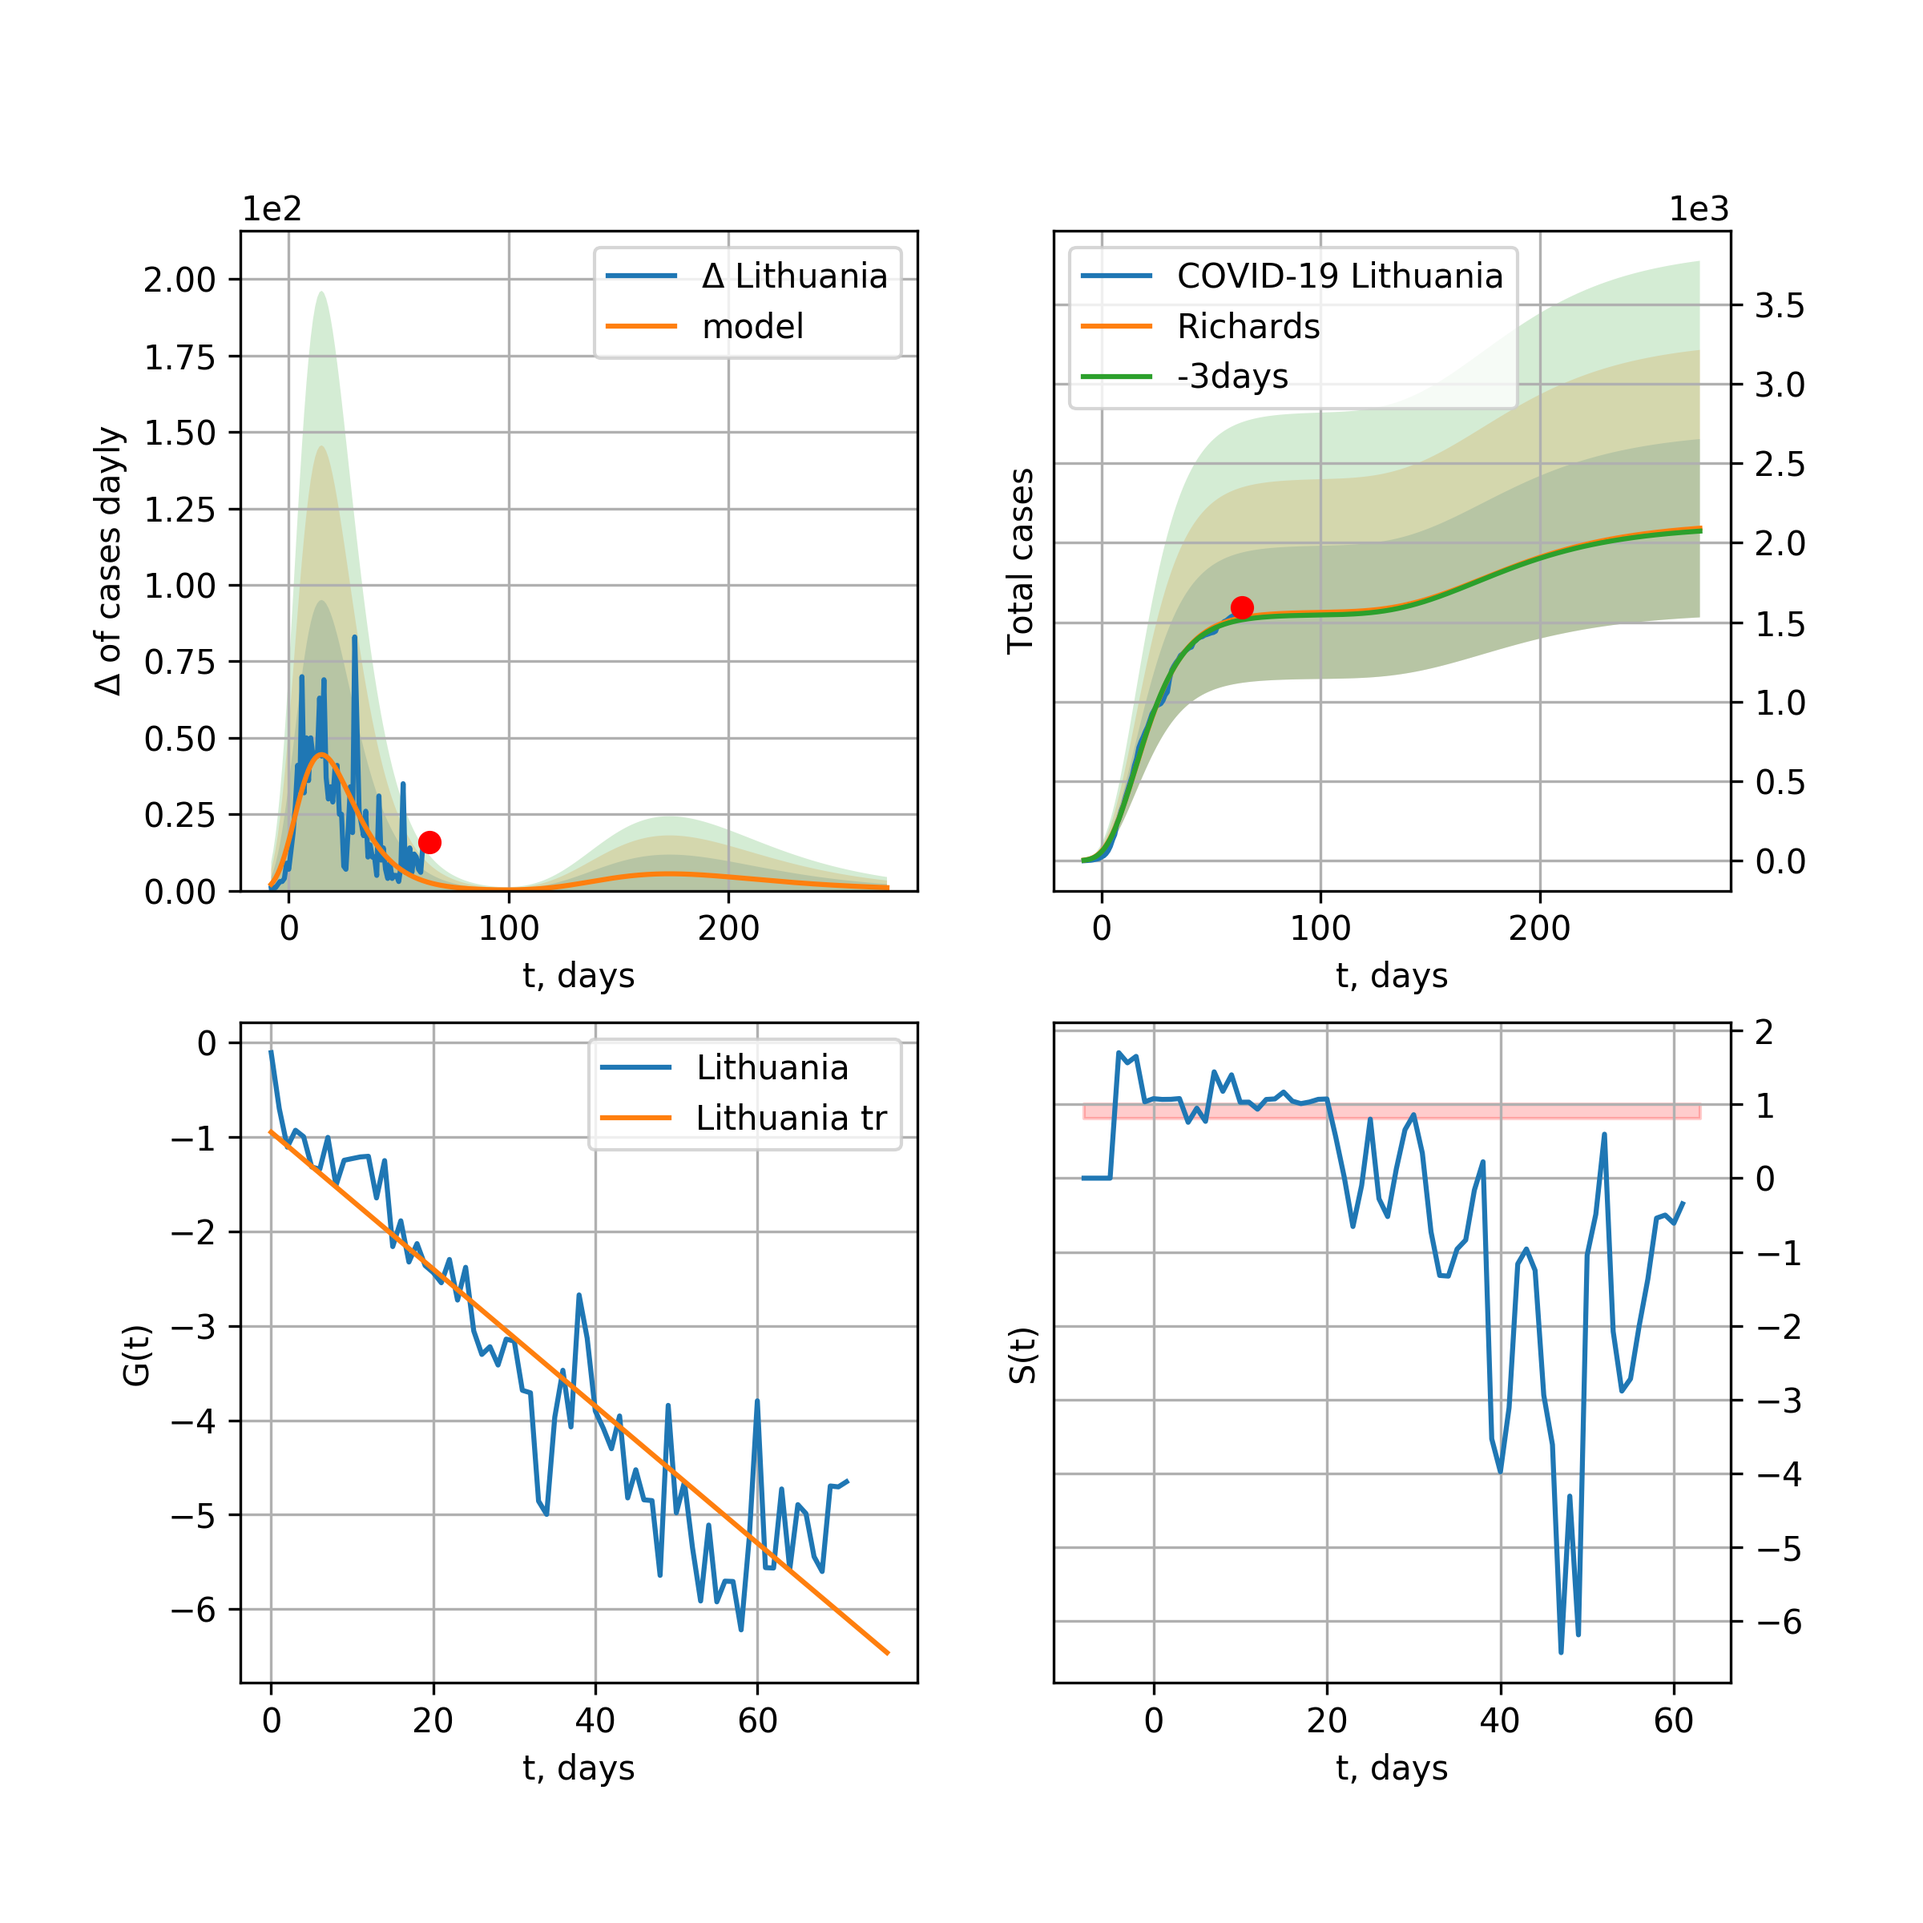
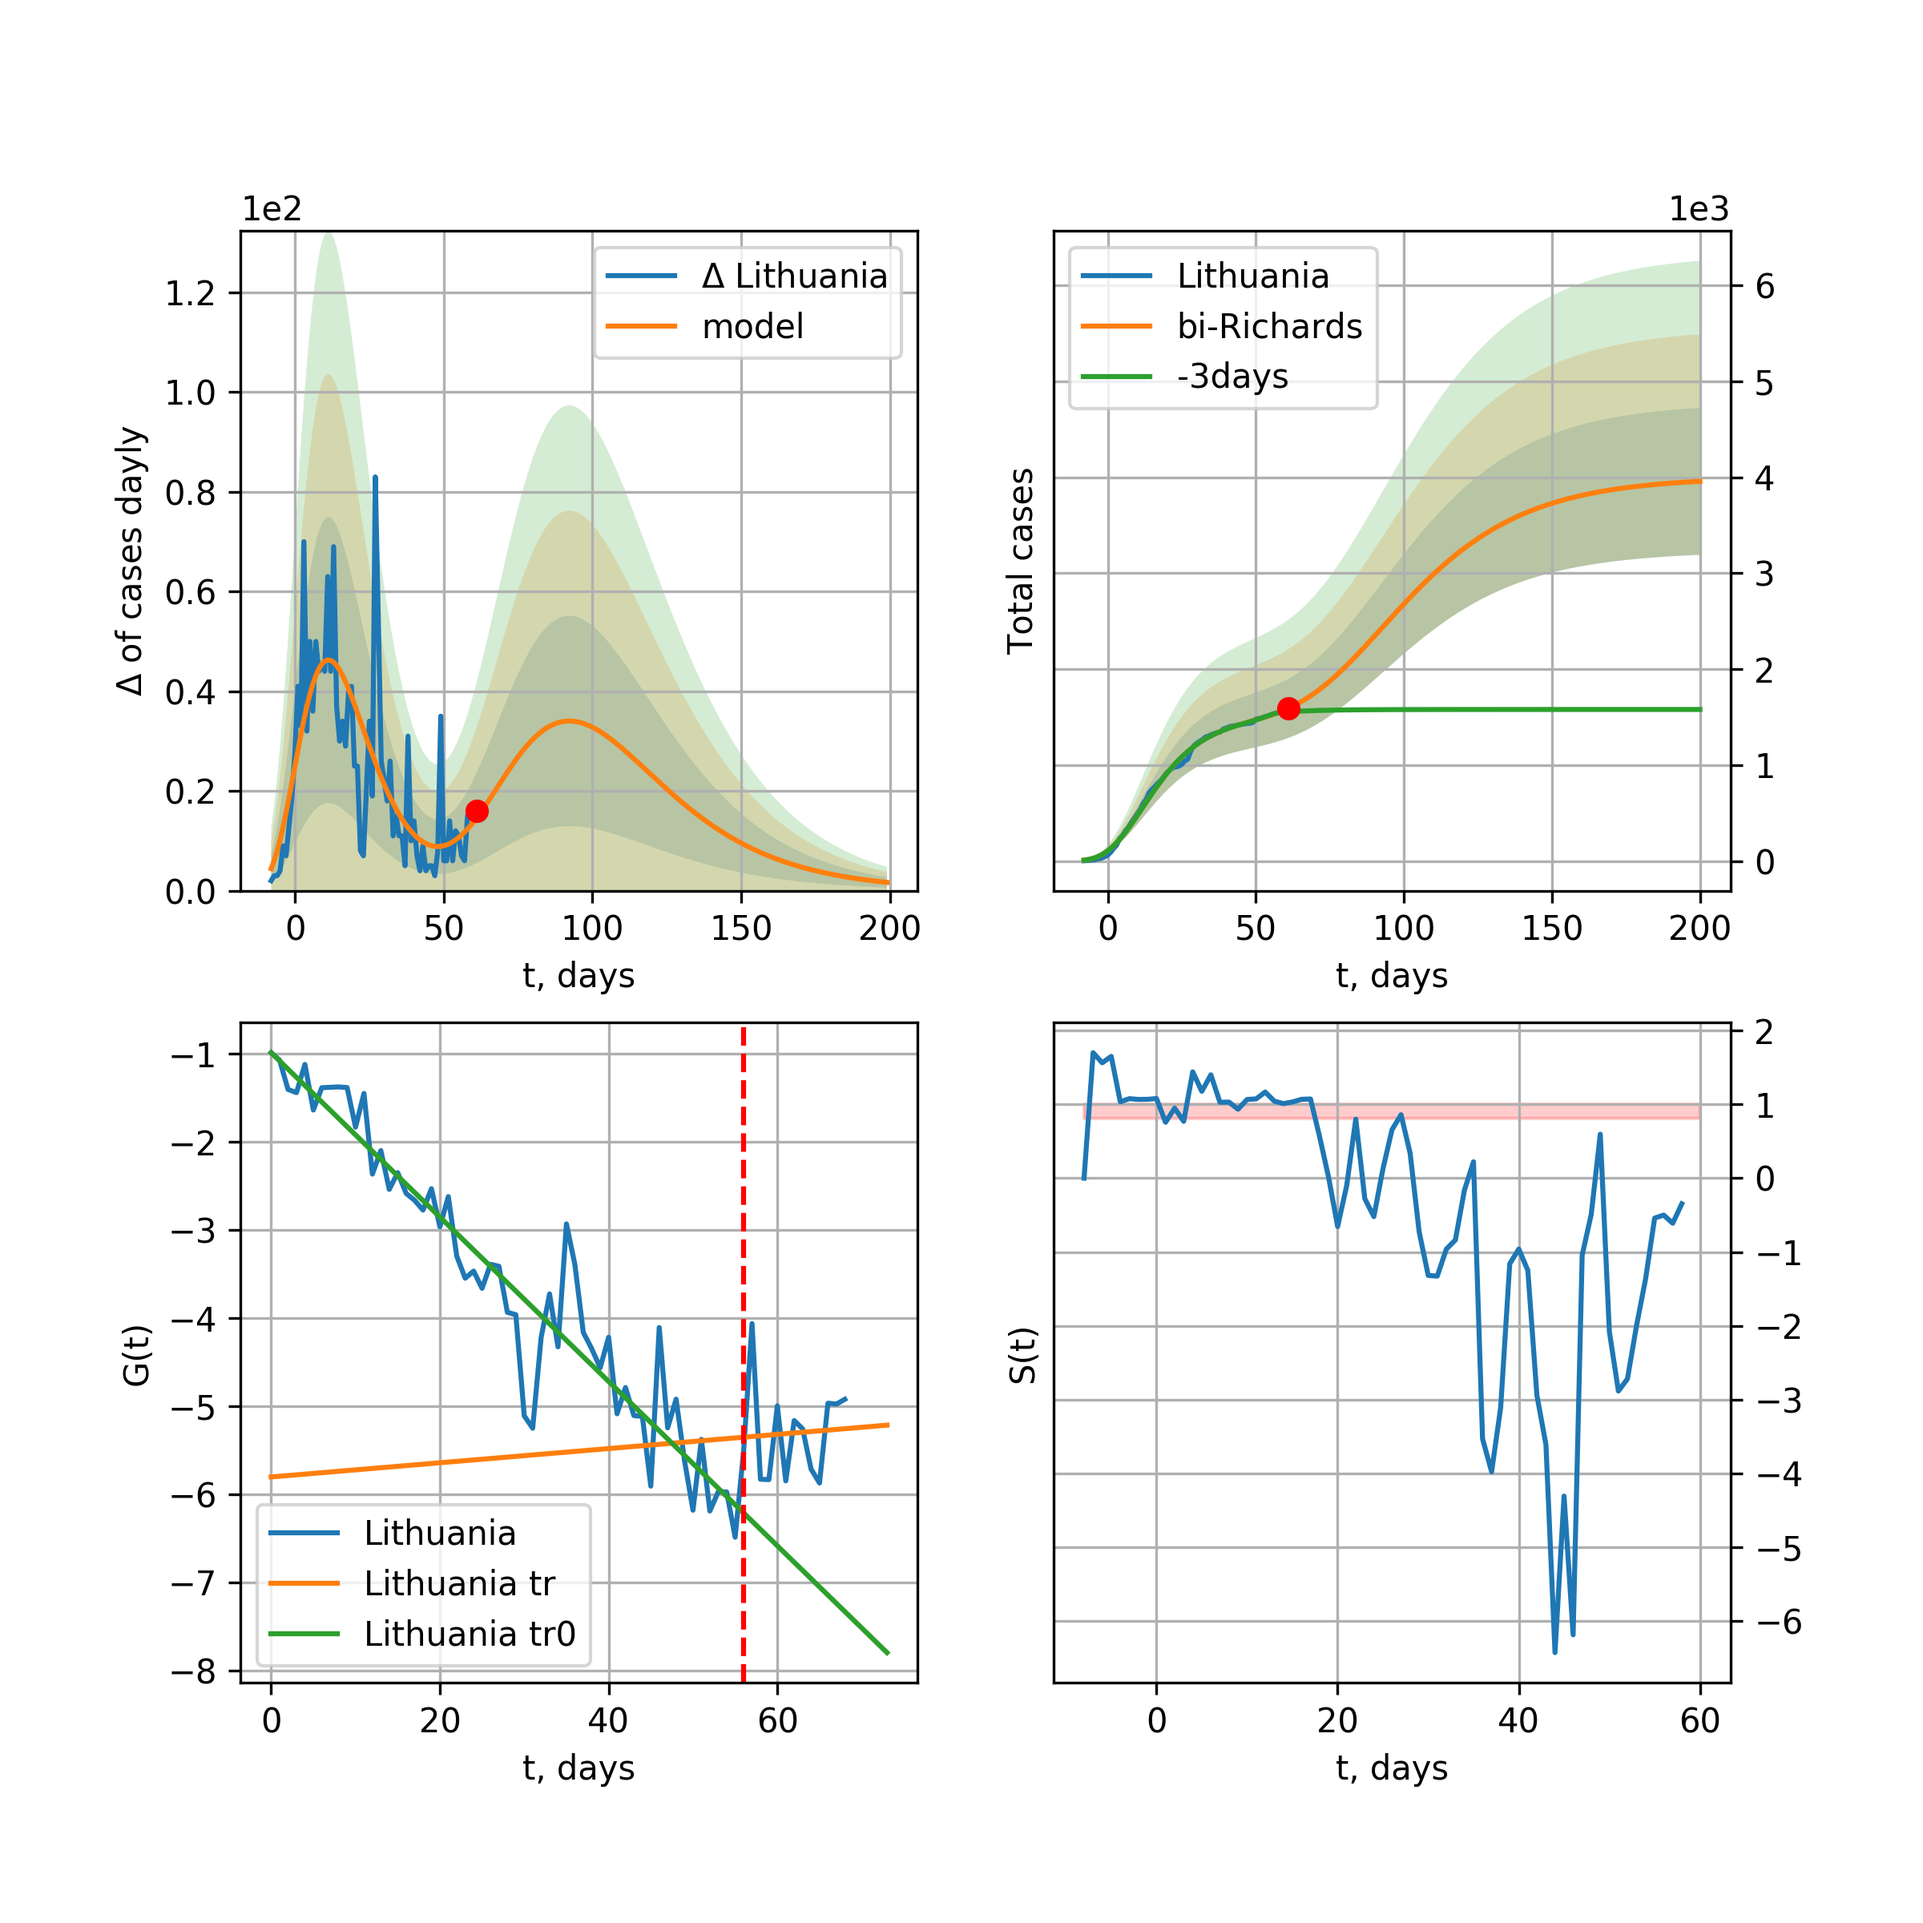
LT renew 2020-05-20

diff --git a/_site/index.html b/_site/index.html
@@ -1406,18 +1406,20 @@ trend coefficient of determination: 0.912361 <br />
     <img src="pictures/covidcasesLithuania36_R.png" alt="hi" class="inline"/><br /> 
 
       Lithuania data at: 2020-05-20<br />
-+3 day model MAPE: 0.008894<br />
-model: Richards<br />
-coeffs: [ 1.56411754e+03  1.12291702e+01 -4.86880400e+01  6.91556769e-03]<br />
-S.Korea scenario coeffs: [0.36242246, 2.56241634, 1.84890887, 0.13324732]<br />
-rational stdev: 0.268137<br />
-forecast at the end of period: +209 days<br />
++3 day model MAPE: 0.031235<br />
+model: bi-Richards<br />
+coeffs: [2.49738693e+03 8.64991925e-01 9.81956024e+00 4.35789940e-02]<br />
+rational stdev: 0.193611<br />
+forecast at the end of period: +139 days<br />
 	 deltaDaycases: 1<br />
-	 total cases: 2091 ± 560<br />
-	 total death: 79 ± 63<br />
-trend coefficient of determination: 0.851863 <br />
- intercept: -0.947208 <br />
- slope: -0.072568<br />
+	 total cases: 3957 ± 766<br />
+	 total death: 150 ± 87<br />
+bi-Richards approximation splitting point: 56<br />
+trend coefficient of determination: 0.915728 <br />
+ intercept: -0.986338 <br />
+ slope: -0.093313<br />trend coefficient of determination: 0.003459 <br />
+ intercept: -5.803585 <br />
+ slope: 0.008056<br />
           <br /> 
     
     Latvia
